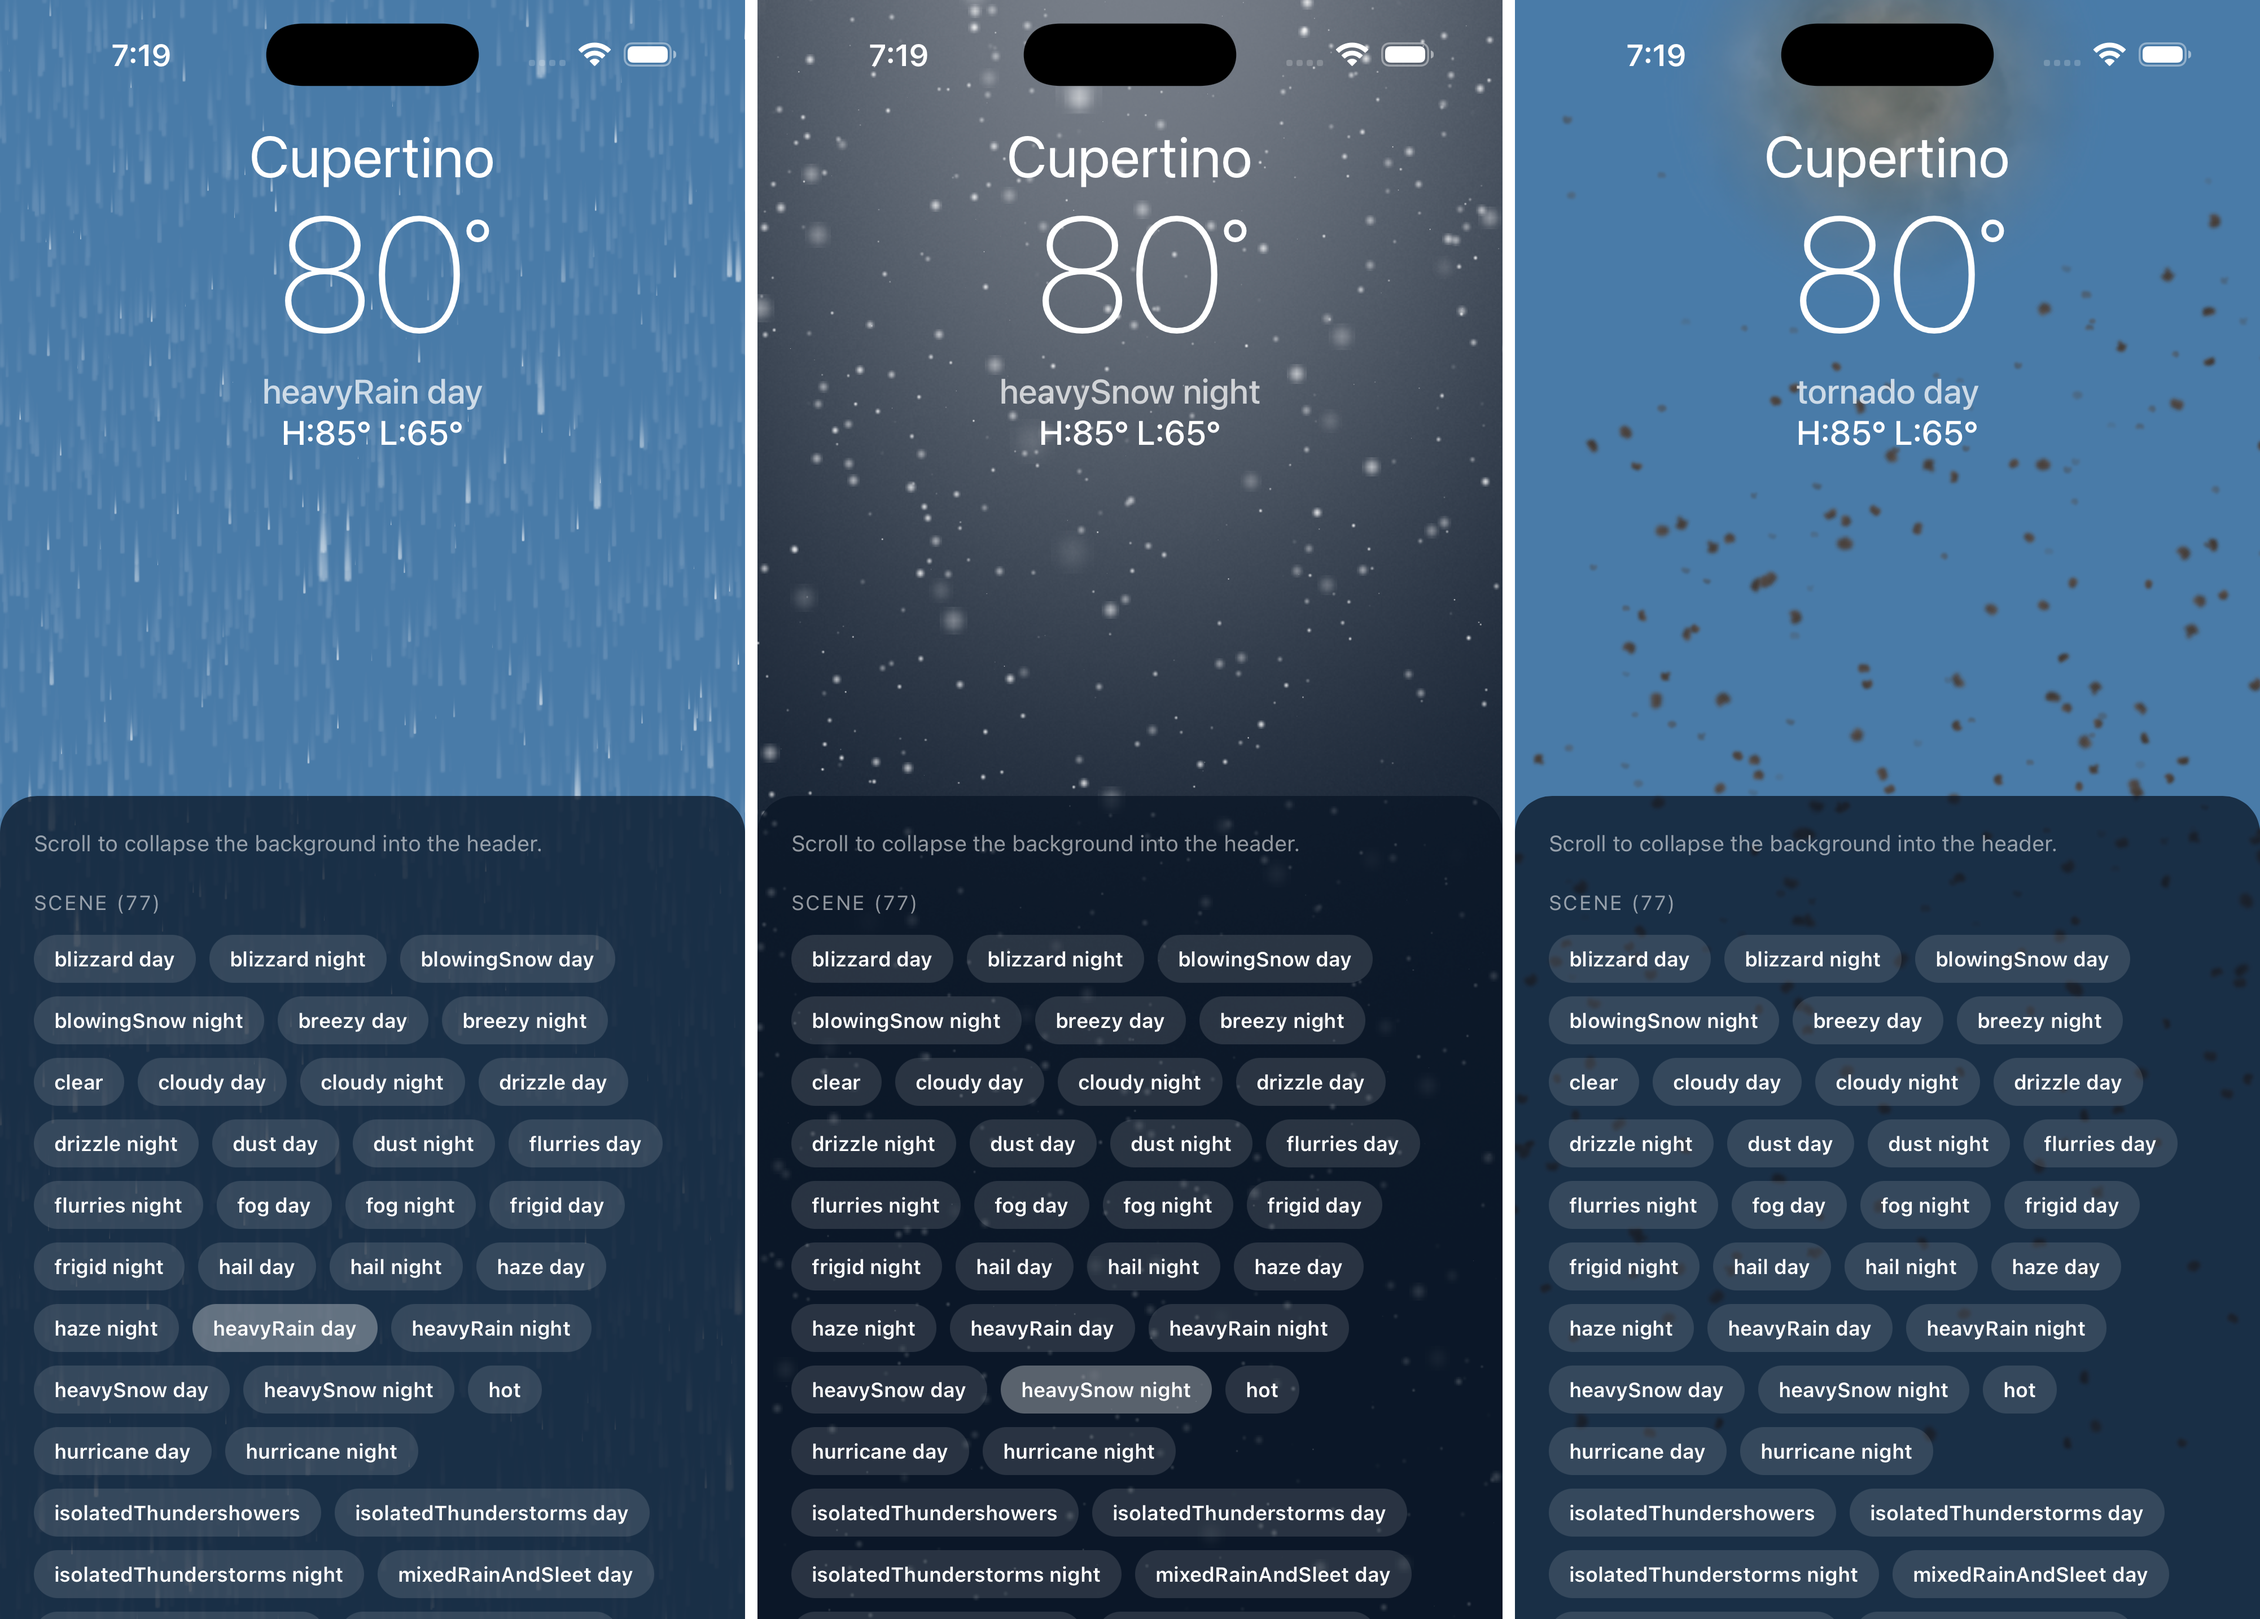
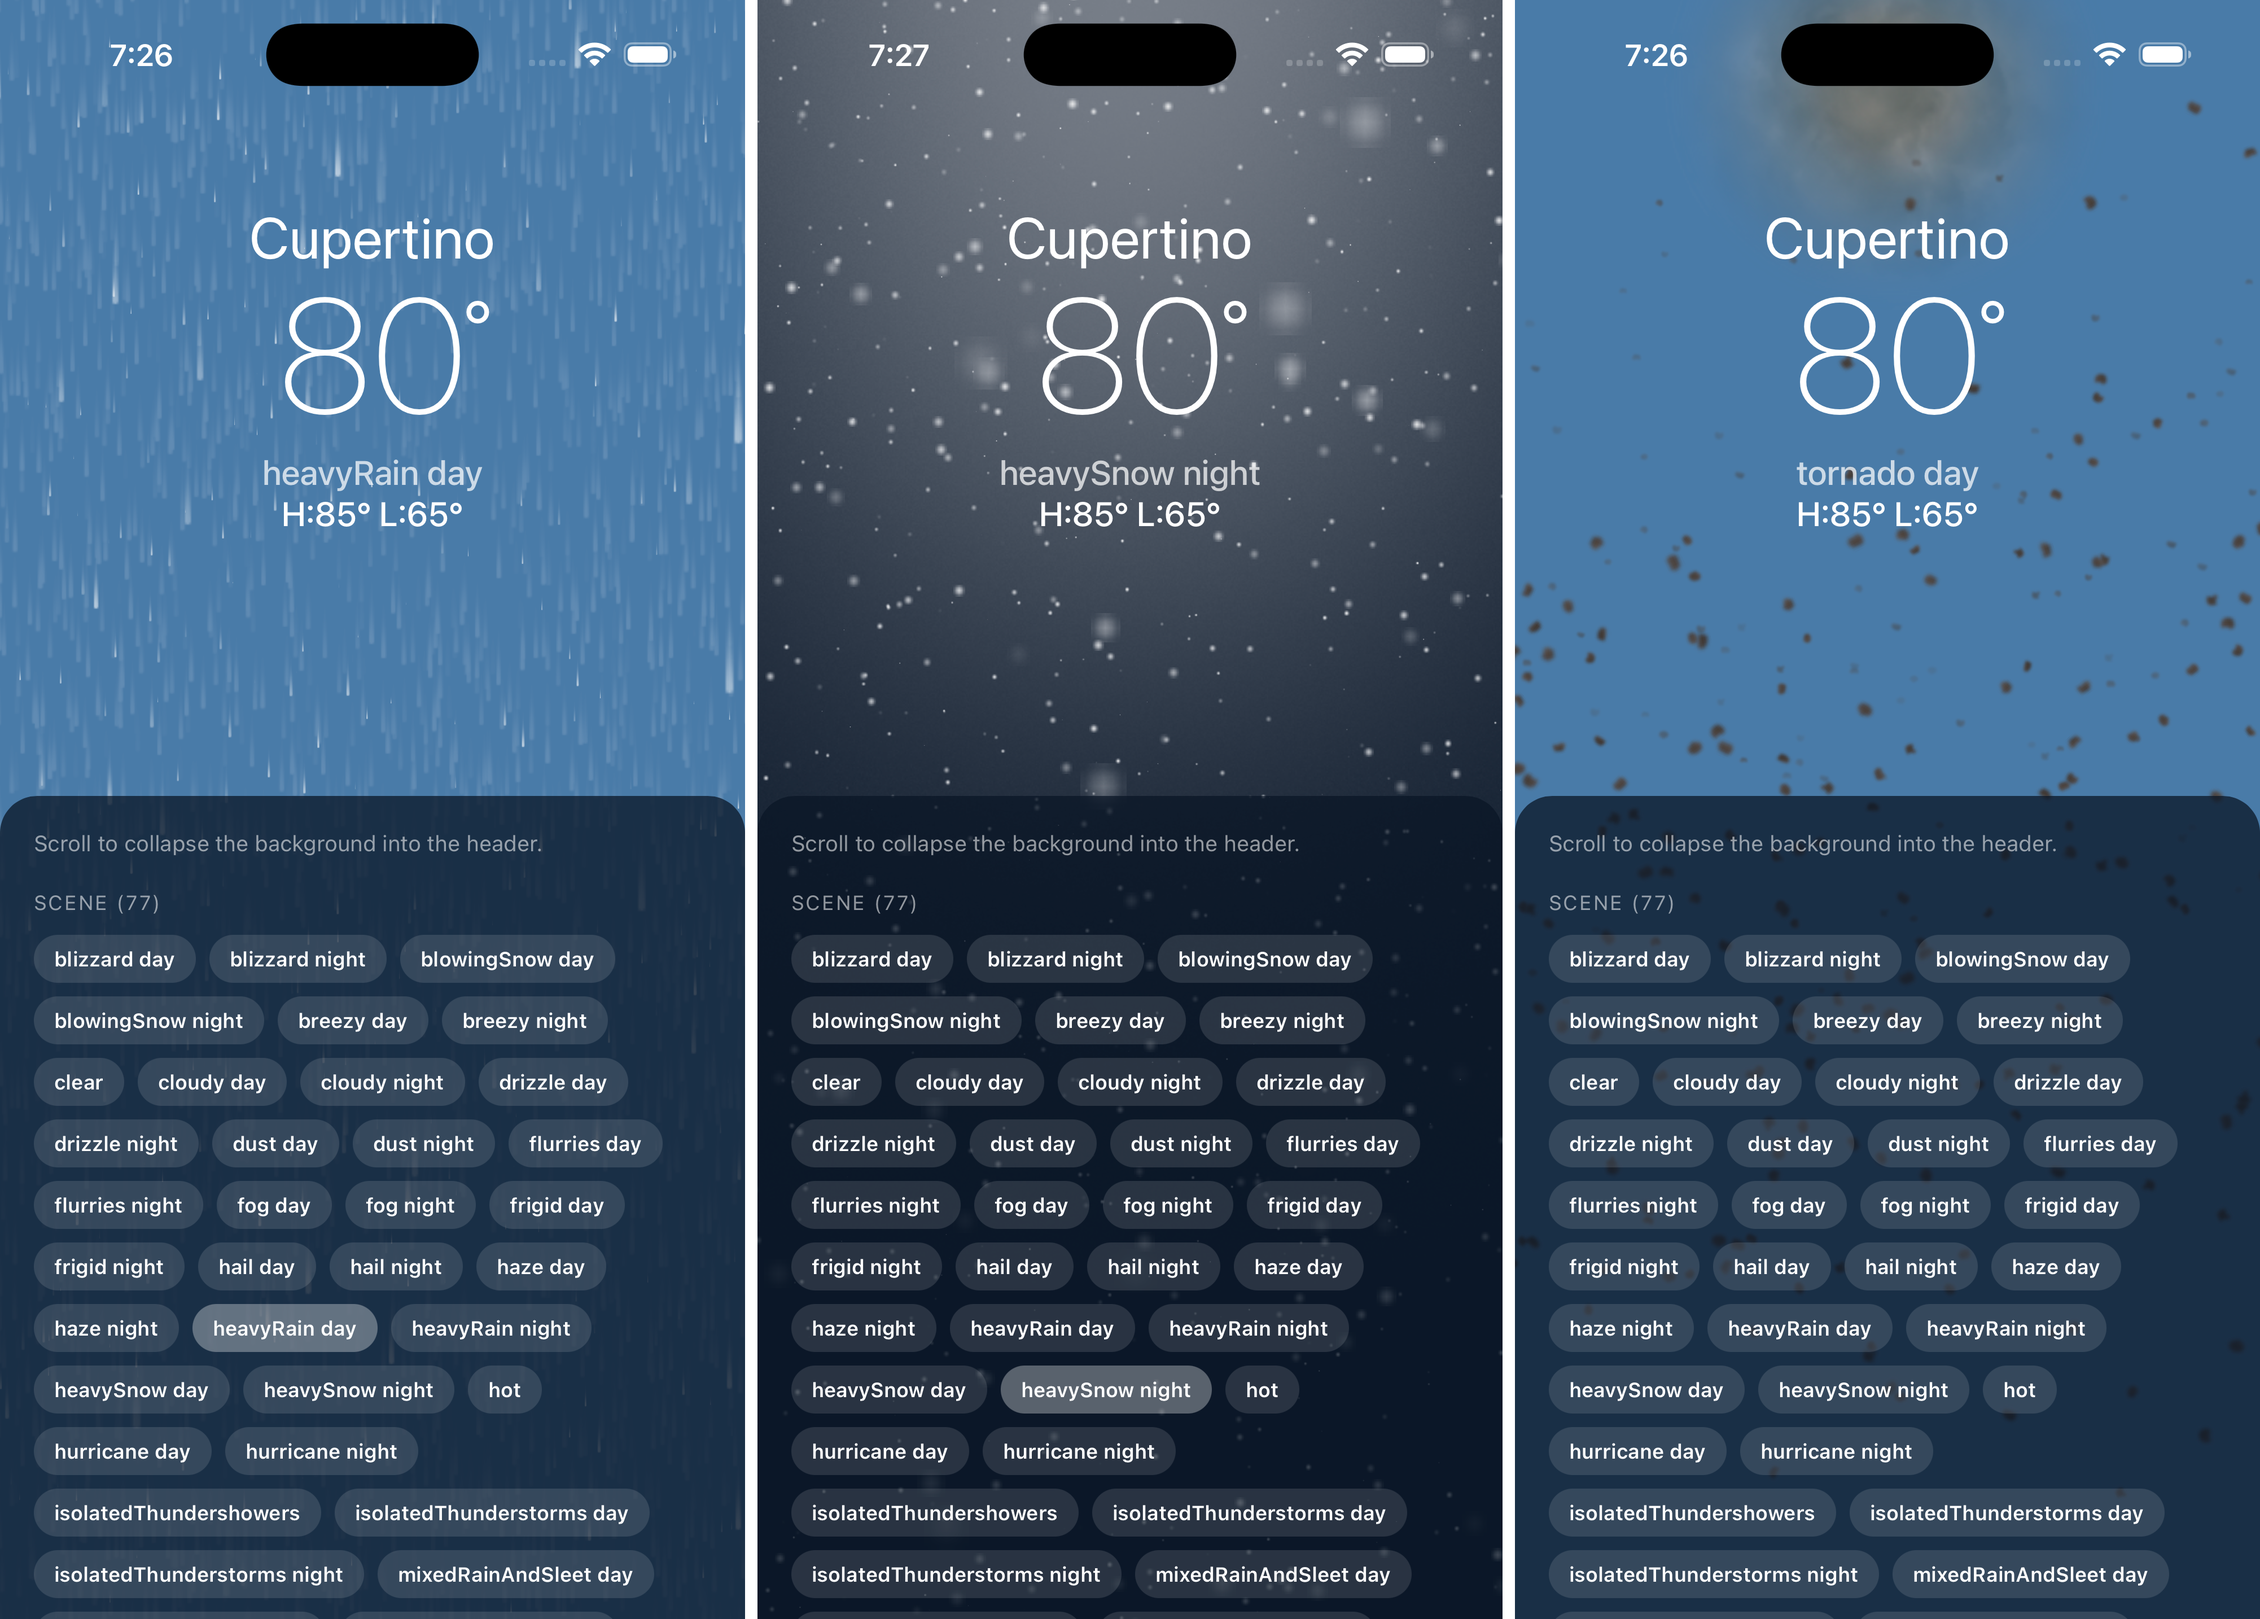
Improvements to Weather Summary U.I
Push that shit a bit down, so it looks more like the legit apple weather app, also update preview screenshots.

diff --git a/src/components/WeatherSummary.tsx b/src/components/WeatherSummary.tsx
@@ -36,7 +36,7 @@ const styles = StyleSheet.create({
     alignItems: "center",
     alignSelf: "stretch",
     paddingHorizontal: 24,
-    paddingTop: 72,
+    paddingTop: 120,
   },
   city: {
     alignSelf: "center",
